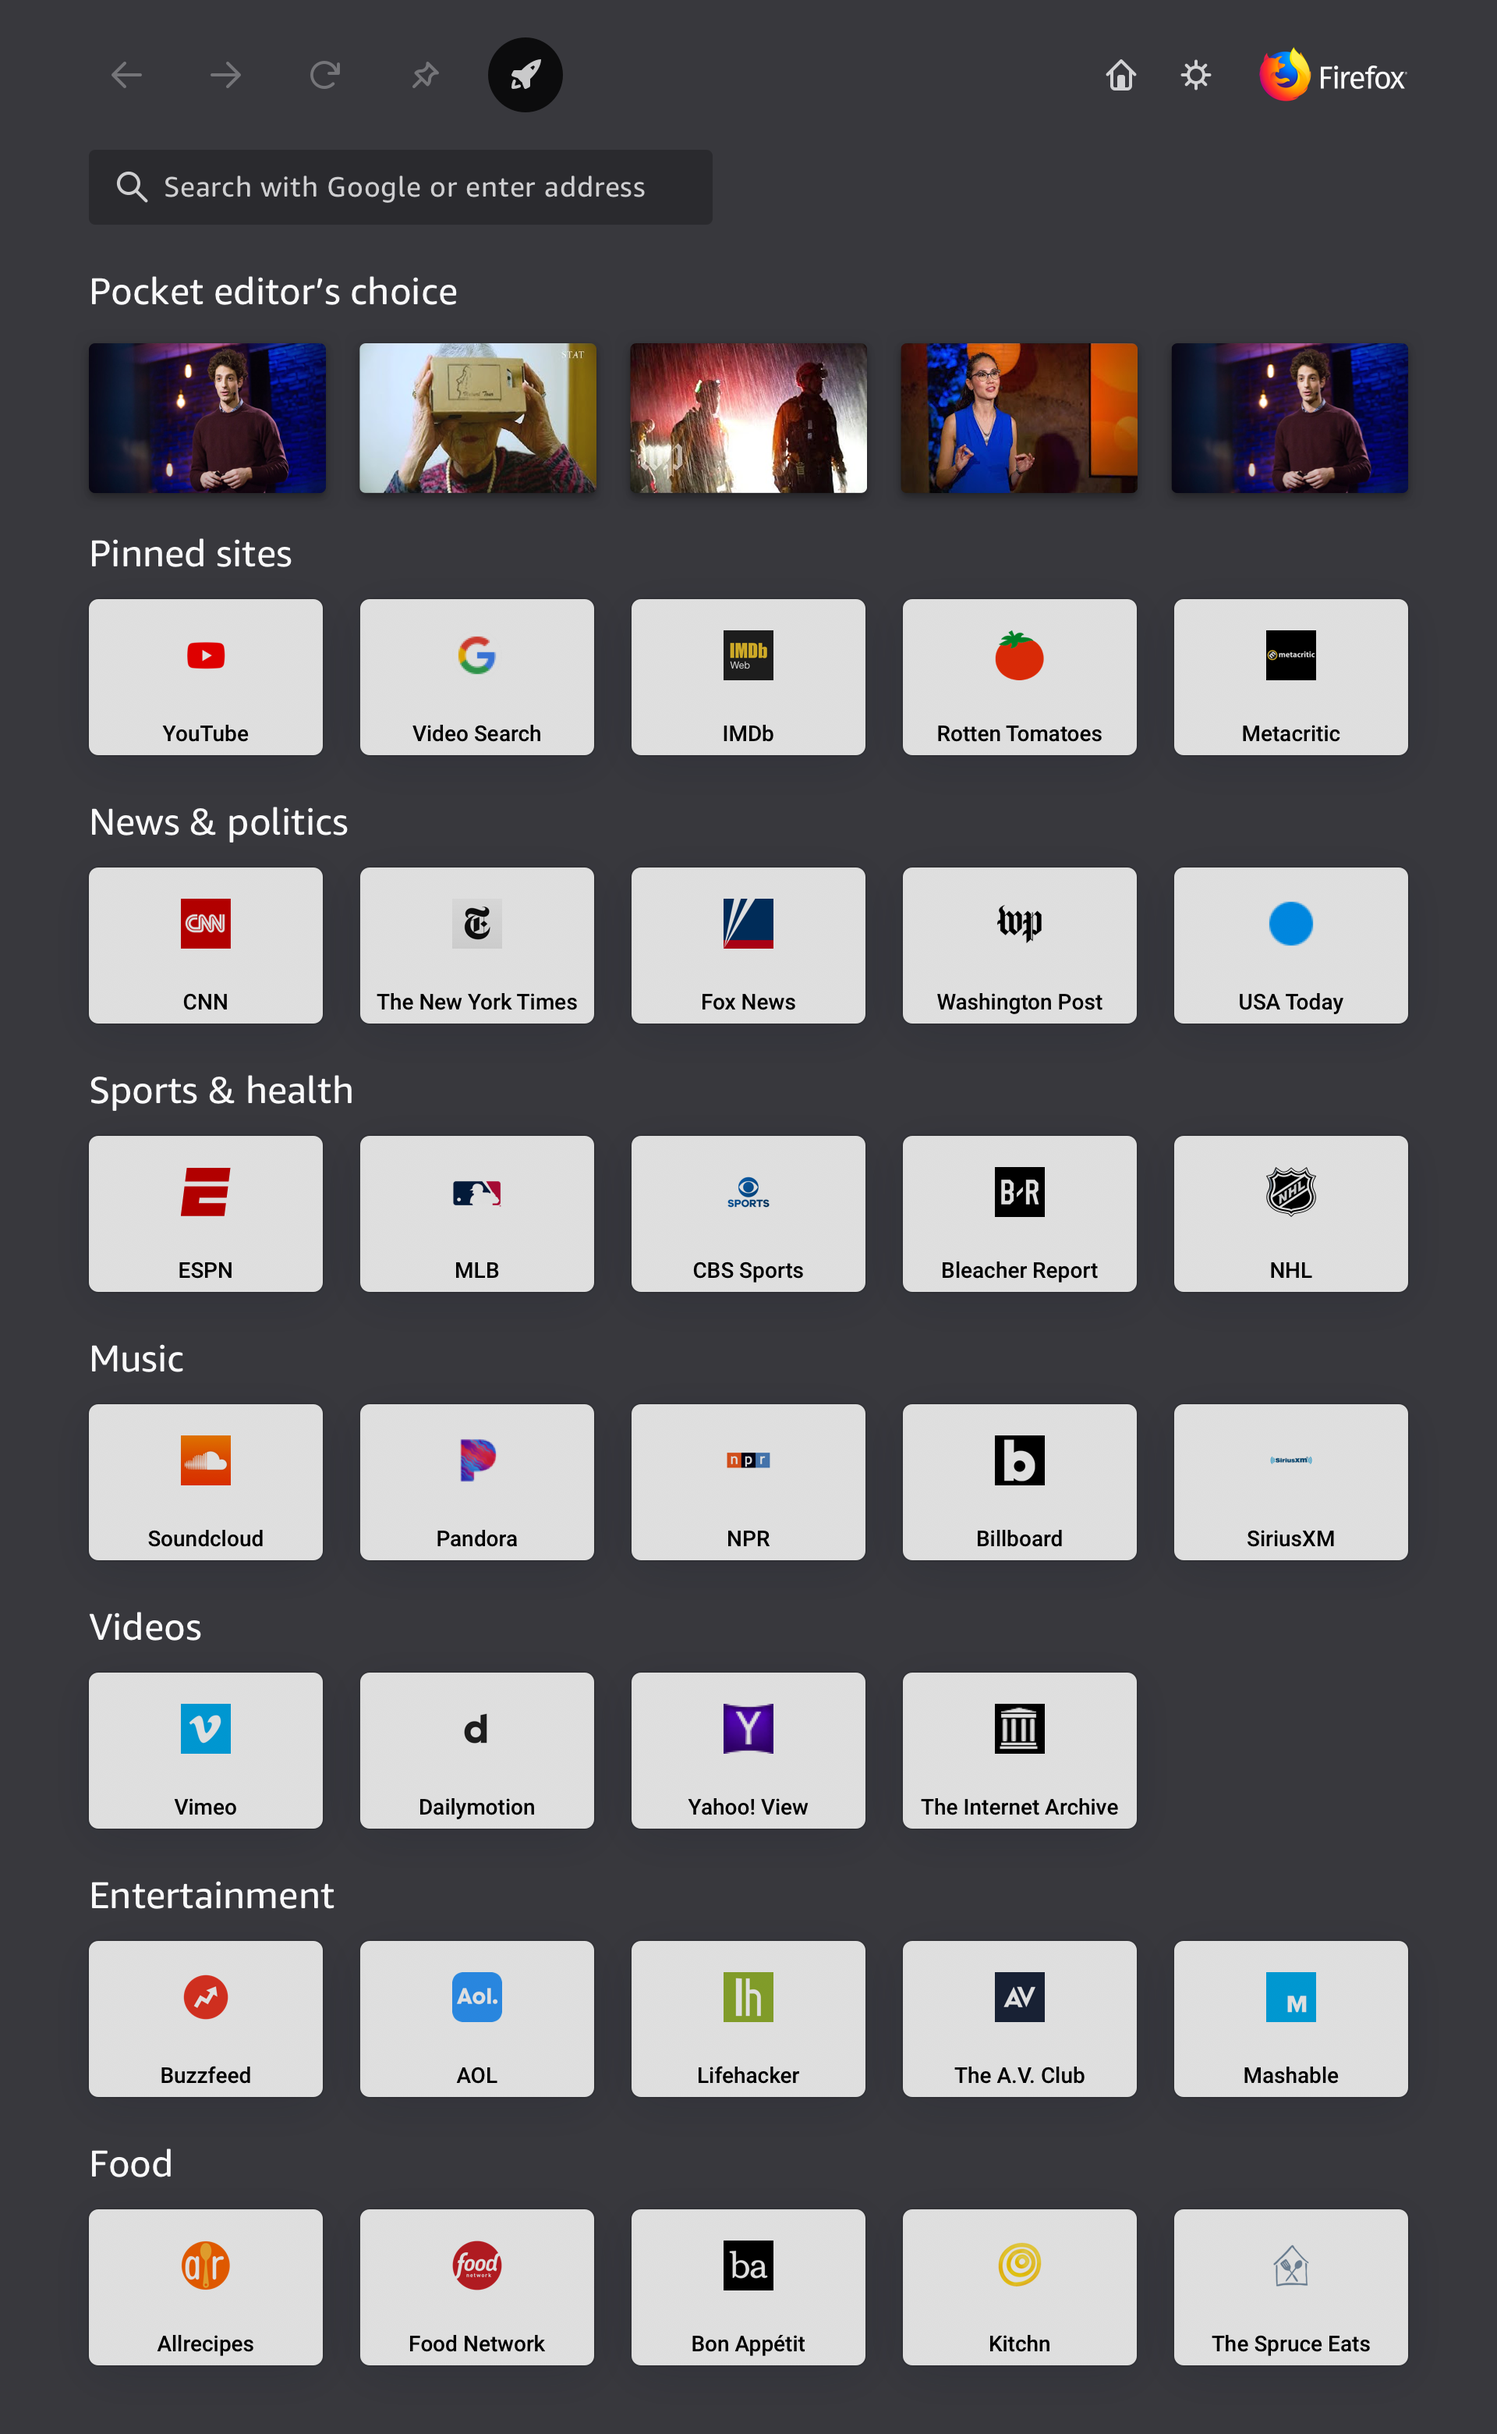
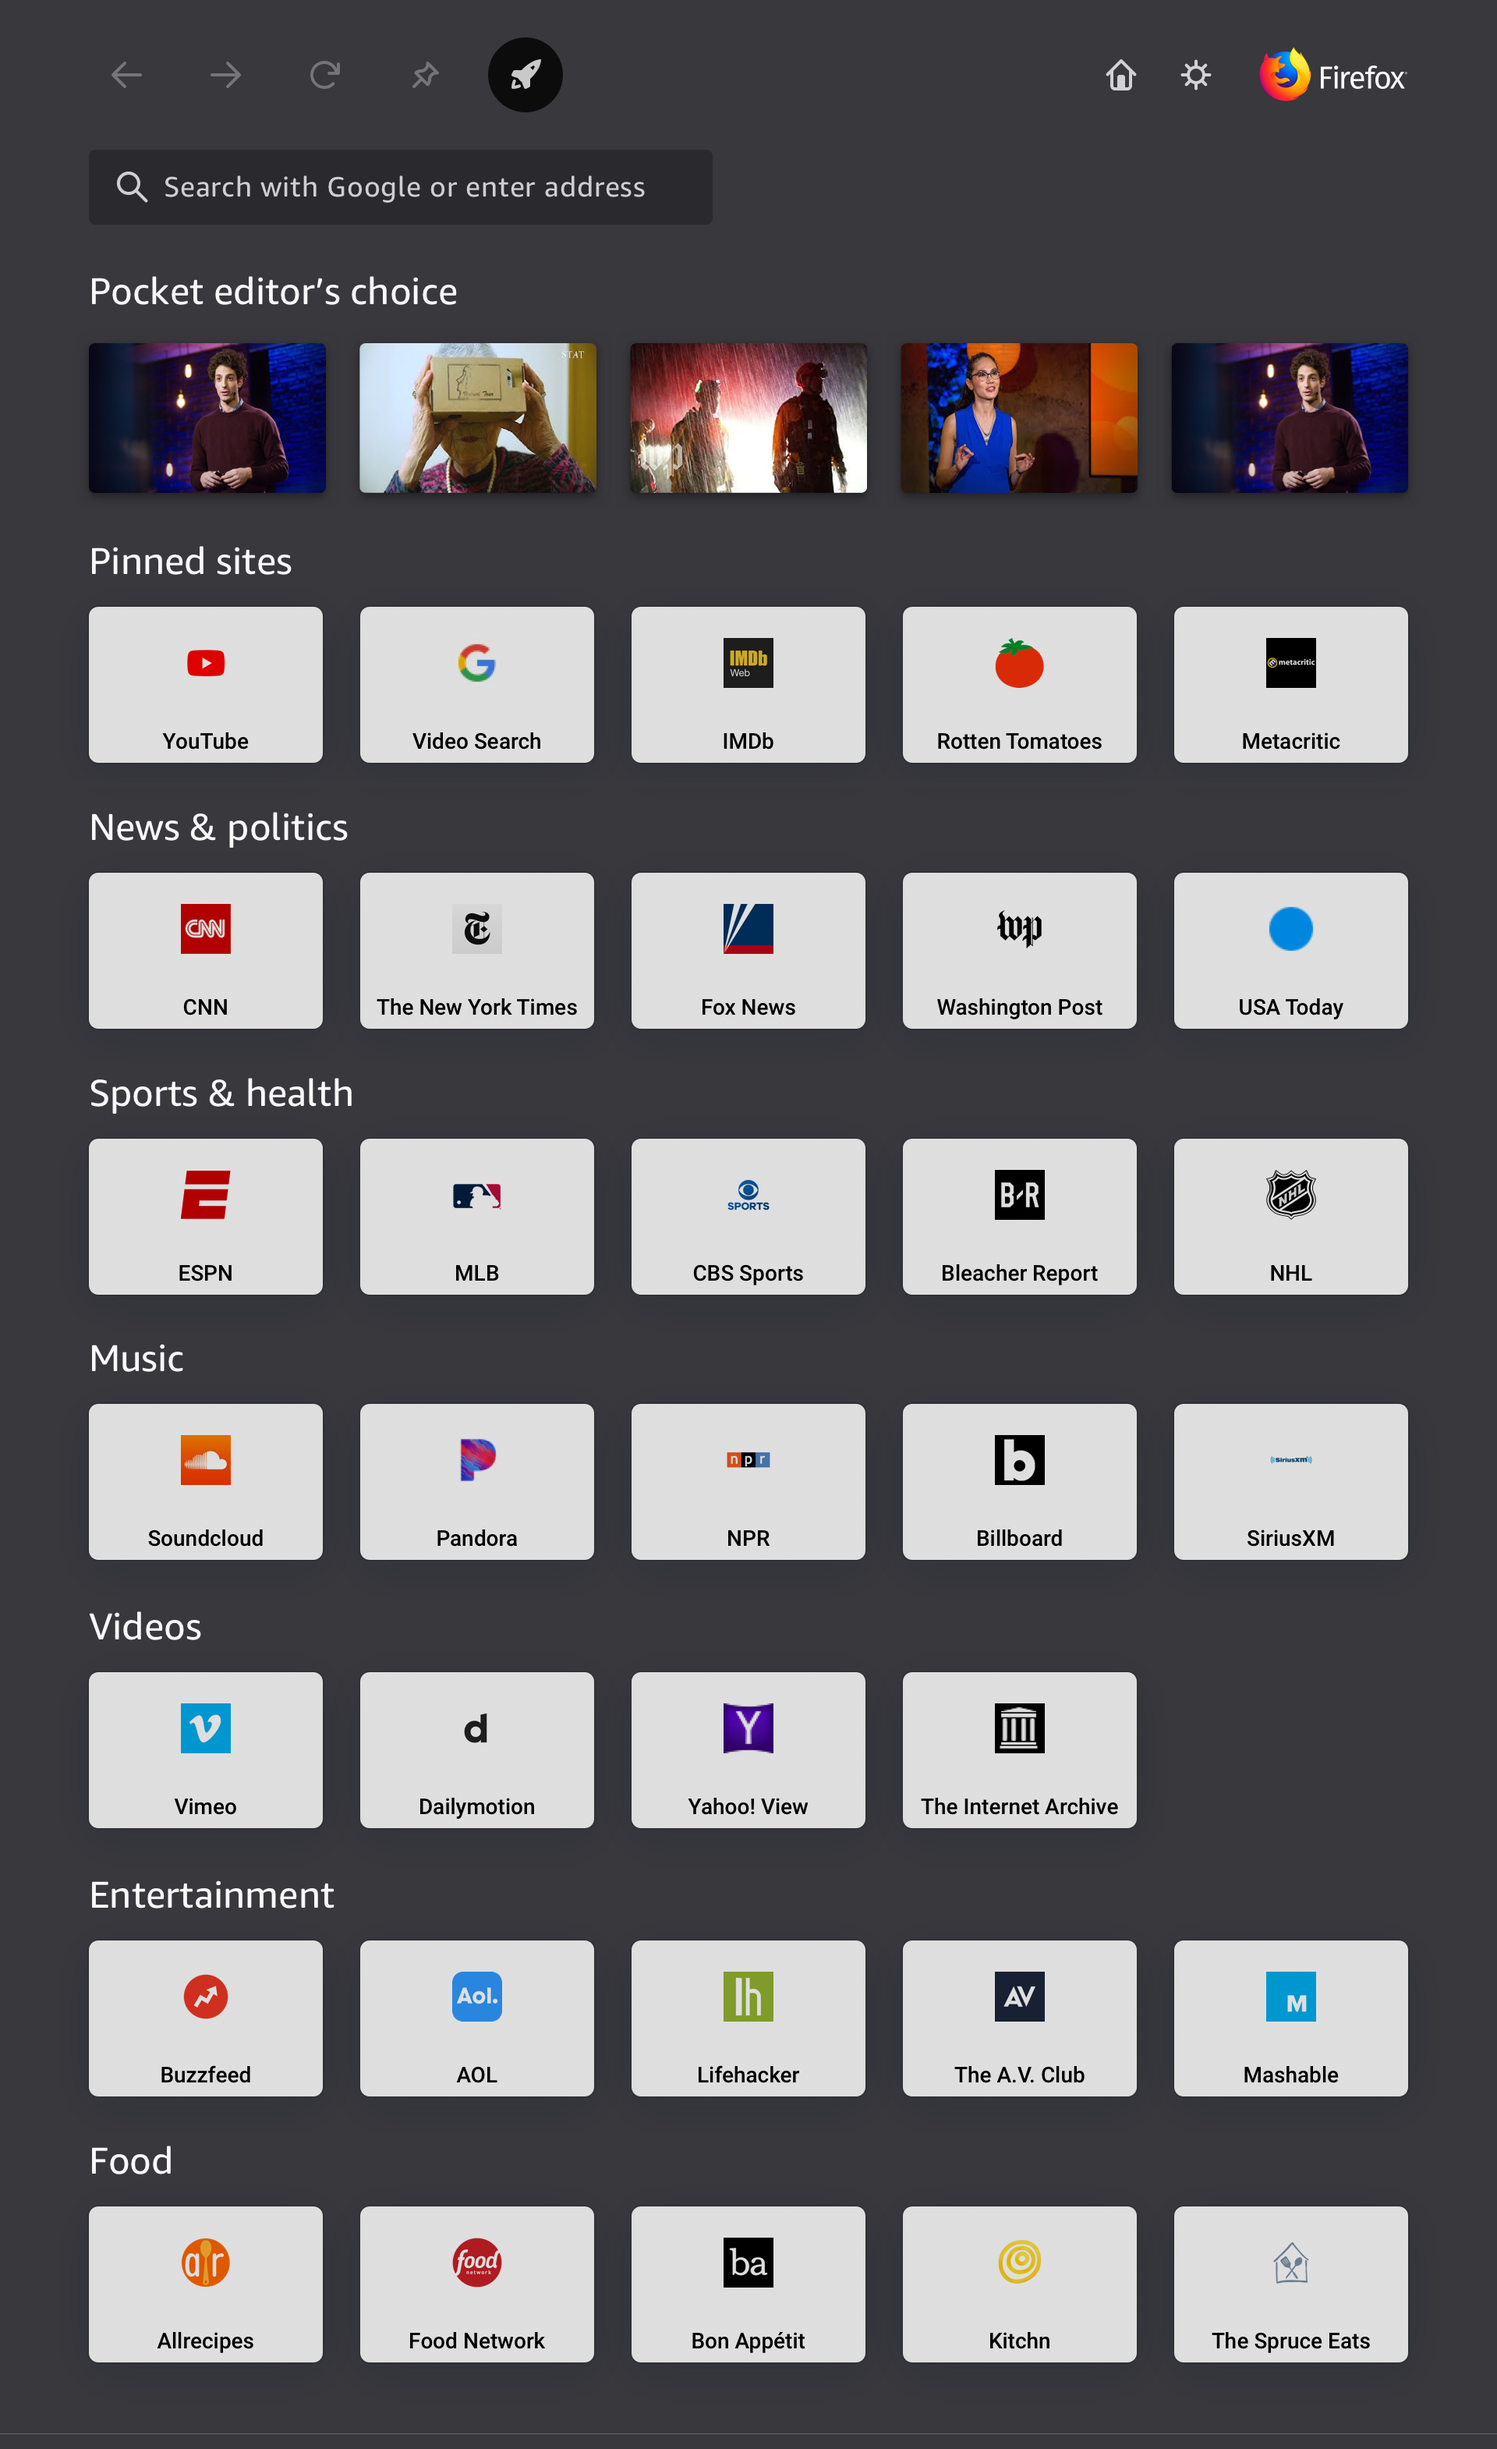
Get the background moving too.

diff --git a/1/js/main.js b/1/js/main.js
@@ -1,31 +1,37 @@
 (function() {
+    const BG_ROW_COUNT = 6;
     const ROW_COUNT = 1;
     const COL_COUNT = 4;
 
     let state = {
-        index: [0,0]
+        browser_index: 0,
+        index: {row: 0, col: 0}
     };
 
     let move = direction => {
         switch (direction) {
         case 'up':
-            if (state.index[1] > 0) {
-                state.index[1] -= 1;
+            if (state.index.row > 0) {
+                state.index.row -= 1;
+            } else if (state.browser_index > 0) {
+                state.browser_index -= 1;
             }
             break;
         case 'left':
-            if (state.index[0] > 0) {
-                state.index[0] -= 1;
+            if (state.index.col > 0) {
+                state.index.col -= 1;
             }
             break;
         case 'right':
-            if (state.index[0] < COL_COUNT) {
-                state.index[0] += 1;
+            if (state.index.col < COL_COUNT) {
+                state.index.col += 1;
             }
             break;
         case 'down':
-            if (state.index[1] < ROW_COUNT) {
-                state.index[1] += 1;
+            if (state.index.row < ROW_COUNT) {
+                state.index.row += 1;
+            } else if (state.browser_index < BG_ROW_COUNT) {
+                state.browser_index += 1;
             }
             break;
 
@@ -34,8 +40,10 @@
             break;
         }
         let style = $('.tv')[0].style;
-        style.setProperty('--carousel-column', state.index[0]);
-        style.setProperty('--carousel-row', state.index[1]);
+        style.setProperty('--carousel-column', state.index.col);
+        style.setProperty('--carousel-row', state.index.row);
+        style.setProperty('--browser-row', state.browser_index);
+        console.log(JSON.stringify(state));
     }
 
     $('.button').click(e => {

diff --git a/1/css/main.css b/1/css/main.css
@@ -171,9 +171,10 @@ body {
     --carousel-top: 210px;
     --carousel-left: 50px;
     --carousel-width: 174px;
-    --carousel-height: 166px;
+    --carousel-height: 171px;
     --carousel-row: 0;
     --carousel-column: 0;
+    --browser-row: 0;
     background: no-repeat top/cover url('../img/browser@2x.png');
     position: absolute;
     top: 16px;
@@ -181,10 +182,12 @@ body {
     width: 961px;
     height: 541px;
     overflow: hidden;
-    background-position: 0px 0px;
+    transition: background-position 150ms ease-in-out;
+    background-position: 0px calc(0px - var(--browser-row) * var(--carousel-height));
 }
 
 #focus {
+    transition: top 150ms ease-in-out, left 150ms ease-in-out;
     background: no-repeat top/cover url('../img/focus-ring@2x.png');
     position: absolute;
     top: calc(var(--carousel-top) + var(--carousel-row) * var(--carousel-height));
